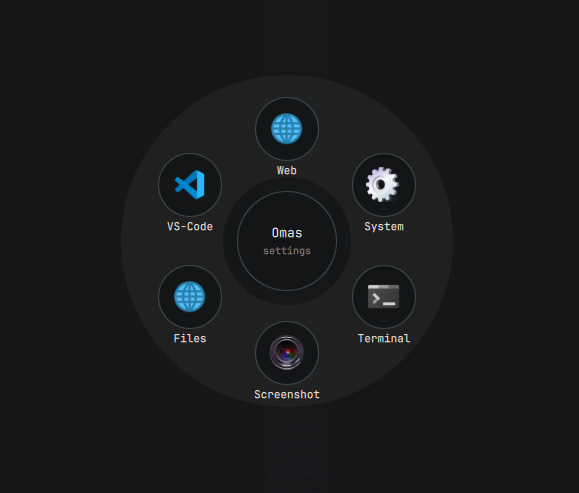
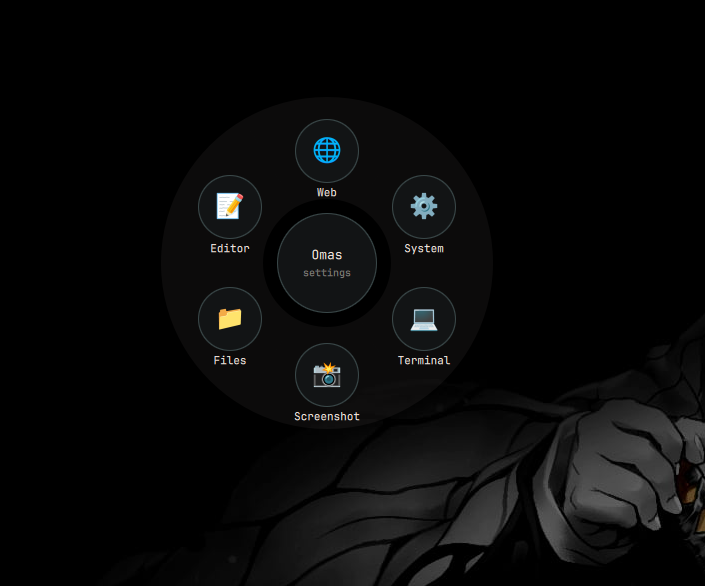
Omarchy defaults

diff --git a/PieModel.js b/PieModel.js
@@ -148,14 +148,15 @@ function demoWheel() {
       {
         name: "Web", icon: "🌐",
         children: [
-          { name: "Firefox", icon: "🦊", command: "firefox", children: [] },
-          { name: "Private window", icon: "🕵", command: "firefox --private-window", children: [] }
+          { name: "Firefox", icon: "🌐", command: "chromium", children: [] },
+          { name: "Private window", icon: "🕵", command: "chromium --incognito", children: [] }
         ]
       },
       {
         name: "System", icon: "⚙",
         children: [
           { name: "Lock", icon: "🔒", command: "omarchy system lock", children: [] },
+          { name: "Sleep", icon: "🌙", command: "systemctl sleep", children: [] },
           {
             name: "Power", icon: "⏻",
             children: [
@@ -165,9 +166,10 @@ function demoWheel() {
           }
         ]
       },
-      { name: "Terminal", icon: "💻", command: "alacritty", children: [] },
+      { name: "Terminal", icon: "💻", command: "foot", children: [] },
       { name: "Screenshot", icon: "📸", command: "omarchy capture screenshot", children: [] },
-      { name: "Files", icon: "📁", command: "xdg-open ~", children: [] }
+      { name: "Files", icon: "📁", command: "xdg-open ~", children: [] },
+      { name: "Editor", icon: "📝", command: "foot nvim", children: [] }
     ]
   }
 }

diff --git a/README.md b/README.md
@@ -114,11 +114,11 @@ this file too.
       "name": "Web",
       "icon": "🌐",                   // emoji, glyph, or "/path/to/image.png"
       "children": [
-        { "name": "Firefox", "icon": "🦊", "command": "firefox" },
-        { "name": "Private window", "icon": "🕵", "command": "firefox --private-window" }
+        { "name": "Chromium", "icon": "🌐", "command": "chromium" },
+        { "name": "Private window", "icon": "🕵", "command": "chromium --incognito" }
       ]
     },
-    { "name": "Terminal", "icon": "💻", "command": "alacritty" }
+    { "name": "Terminal", "icon": "💻", "command": "foot" }
   ]
 }
 ```
